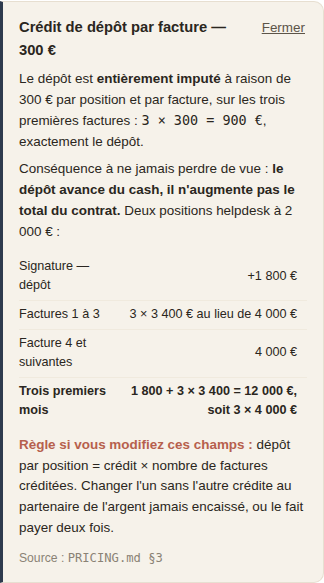
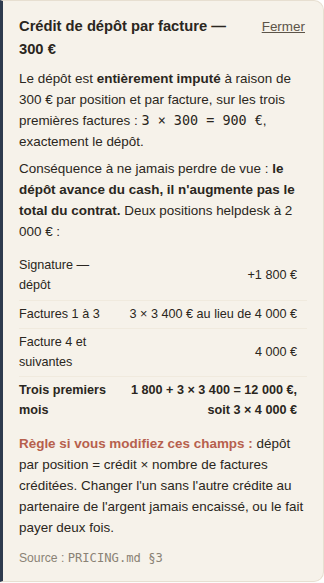
Inscrit la règle d'archivage dans CLAUDE.md, qui la contredisait
Cause de fond de la grille directe inventée : le dépôt se contredisait.

99-Archives/README.md interdit en première ligne d'utiliser quoi que ce soit du
dossier pour chiffrer un deal, préparer un appel ou écrire de la copy. CLAUDE.md
indiquait de son côté que « les tarifs directs restent disponibles dans le
registre pour traiter les entrants ». CLAUDE.md est lu à chaque session, le
README du dossier d'archives ne l'est pas : l'instruction qui autorisait était
visible, celle qui interdisait ne l'était pas.

Cette phrase reposait en outre sur un fait faux : le registre ne contient pas de
tarif direct, seulement une estimation marché du 2026-06-10 dont les sources
sont des sites de télésecrétariat médical et des BPO généralistes.

CLAUDE.md porte désormais, à l'endroit où elles seront lues :
- la règle d'archivage — ne jamais reprendre un prix, un benchmark ou une
  prévision de 99-Archives dans un document actif, un devis ou un outil ; on
  peut l'y citer comme historique daté, jamais comme valeur de calcul ;
- l'absence de tarif direct arbitré, et la règle de chiffrage d'un entrant au
  cas par cas à partir du coût réel.

Le gel du direct porte sur la prospection, pas sur le traitement d'un entrant :
cette intention est conservée, c'est le chemin de chiffrage qui change.

Les deux fiches de la page de projection qui citaient le registre à côté d'une
source active sont reprises. L'onboarding par position cite AUDIT-ESPACE-CLIENT
[…]

diff --git a/projection-finances-salverys.html b/projection-finances-salverys.html
@@ -926,7 +926,7 @@ const HELP = {
       <p>Elle vient de la décomposition du registre interne, <b>~400 € de socle + ~400 € par position</b>.</p>
       <p><span class="flag">Correction du 2026-09-17.</span> Le prévisionnel utilisait jusque-là un forfait unique de <b>1 600 € par contrat</b>. Ce montant n'était rien d'autre que la décomposition appliquée à un contrat de <b>trois</b> positions (400 + 3 × 400). Employé tel quel, il surchargeait de 800 € un contrat d'une seule position et sous-estimerait un contrat de six.</p>
       <p>Ordre de grandeur non documenté : ni le temps passé, ni les dépenses réellement engagées sur un démarrage n'ont été relevés.</p>`,
-    src: 'AUDIT-ESPACE-CLIENT.md §9.2 · 99-Archives/PRICING-REGISTRE-INTERNE-2026-09-15.md',
+    src: 'AUDIT-ESPACE-CLIENT.md §9.2',
   },
   onbPos: {
     title: 'Onboarding, par position — 400 €',
@@ -975,7 +975,7 @@ const HELP = {
       <p>Restitué en cas d'annulation <b>avant</b> le démarrage de la mise en service ; acquis à Salverys après, selon le contrat. Le modèle ne simule pas cette restitution.</p>
       <p><span class="flag">Le plafond de 2 700 € a été supprimé le 2026-09-14.</span> Un plafond fixe face à une imputation proportionnelle de 300 €/position ne se recoupait qu'à exactement 3 positions : à 9 positions, on créditait 8 100 € pour 2 700 € réellement encaissés, soit 5 400 € offerts.</p>
       <p>Ne s'applique pas automatiquement au modèle A (débordement mutualisé) ni au médical facturé à l'appel : aucune position n'y est réservée. Toute avance sur ces modèles se chiffre et s'impute explicitement dans le devis.</p>`,
-    src: 'PRICING.md §3 · 99-Archives/PRICING-REGISTRE-INTERNE-2026-09-15.md §3.a',
+    src: 'PRICING.md §3 — historique de la suppression du plafond : registre interne archivé, qui ne fait foi sur aucun prix',
   },
   credit: {
     title: 'Crédit de dépôt par facture — 300 €',

diff --git a/CLAUDE.md b/CLAUDE.md
@@ -121,7 +121,22 @@ de l'équipe se mesure après démarrage, sans promesse de « zéro turnover ».
 
 **`PRICING.md` fait foi pour les devis en marque blanche** : deux modèles IT (débordement et poste dédié), grille par volume ferme, télésecrétariat partenaire, dépôt, horaires et engagement de service. Toute proposition partenaire doit s'y aligner. La version complète antérieure, avec les tarifs directs et la chronologie des décisions, est conservée dans `99-Archives/PRICING-REGISTRE-INTERNE-2026-09-15.md` ; elle ne remplace pas la grille partenaire actuelle.
 
-Rappels clés : **1) Helpdesk IT N1 ESN/MSP · 2) Support N1 SaaS · 3) médical partenaire · 4) relation client future**. Le dépôt de **900 €/position** concerne le poste dédié ; les modèles sans position réservée nécessitent un cadrage distinct. Les tarifs directs restent disponibles dans le registre pour traiter les entrants, sans prospection sortante ni nouveau chantier direct.
+Rappels clés : **1) Helpdesk IT N1 ESN/MSP · 2) Support N1 SaaS · 3) médical partenaire · 4) relation client future**. Le dépôt de **900 €/position** concerne le poste dédié ; les modèles sans position réservée nécessitent un cadrage distinct.
+
+> ⚠ **`99-Archives/` ne chiffre rien.** Son README l'écrit en première ligne : rien de ce
+> dossier ne sert à chiffrer un deal, préparer un appel ou écrire de la copy. **Ne jamais
+> reprendre un prix, un benchmark ou une prévision d'un fichier de `99-Archives/` dans un
+> document actif, un devis ou un outil** — on peut l'y citer comme historique daté, jamais
+> comme valeur de calcul. En cas de doute sur un prix : `PRICING.md` fait foi.
+>
+> **Il n'existe aucun tarif direct arbitré** (corrigé le 2026-09-18). Les fourchettes de
+> 1 900–2 400 € et 2 200–2 800 € du registre interne sont une **estimation marché du
+> 2026-06-10, jamais validée** : aucune décision datée ne les fixe, et les sources de cette
+> étude sont des sites de télésecrétariat médical et des BPO généralistes — aucune ne publie
+> un prix de position dédiée en helpdesk IT ou en support SaaS en direct.
+> **Un entrant en direct se chiffre au cas par cas**, à partir du coût réel et de la marge
+> visée, dans `projection-finances-salverys.html`. Le gel du direct porte sur la prospection,
+> pas sur le traitement d'un entrant. Détail : `AUDIT-FINANCE-PREVISIONNEL.md` §0.b.
 
 ## Règle d'arbitrage : SaaS-first avant tout code maison
 

diff --git a/AUDIT-FINANCE-PREVISIONNEL.md b/AUDIT-FINANCE-PREVISIONNEL.md
@@ -38,6 +38,10 @@ Le builder annonce aussi ce que coûterait la position suivante, palier de manag
 
 **Bug trouvé au passage.** Basculer un contrat sur « direct » sans prix faisait échouer la lecture des contrats avant le rafraîchissement des cartes : le champ prix restait masqué et désactivé, donc impossible à remplir, alors que le message d'erreur réclamait précisément ce prix. La visibilité du champ ne dépend plus du succès du calcul.
 
+**Cause de fond : le dépôt se contredisait.** `99-Archives/README.md` interdit en première ligne d'utiliser quoi que ce soit du dossier pour chiffrer, tandis que `CLAUDE.md` §« Source de vérité tarifaire » indiquait que « les tarifs directs restent disponibles dans le registre pour traiter les entrants ». `CLAUDE.md` est lu à chaque session, le README du dossier d'archives ne l'est pas : l'instruction qui autorisait était visible, celle qui interdisait ne l'était pas. La phrase de `CLAUDE.md` reposait en outre sur un fait faux, puisque le registre ne contient pas de tarif direct mais une estimation.
+
+`CLAUDE.md` porte désormais la règle d'archivage et l'absence de tarif direct arbitré, à l'endroit où elles seront effectivement lues. Les deux fiches de la page de projection qui citaient le registre à côté d'une source active ont été reprises : un fichier archivé ne peut y apparaître que nommé comme historique.
+
 ---
 
 
